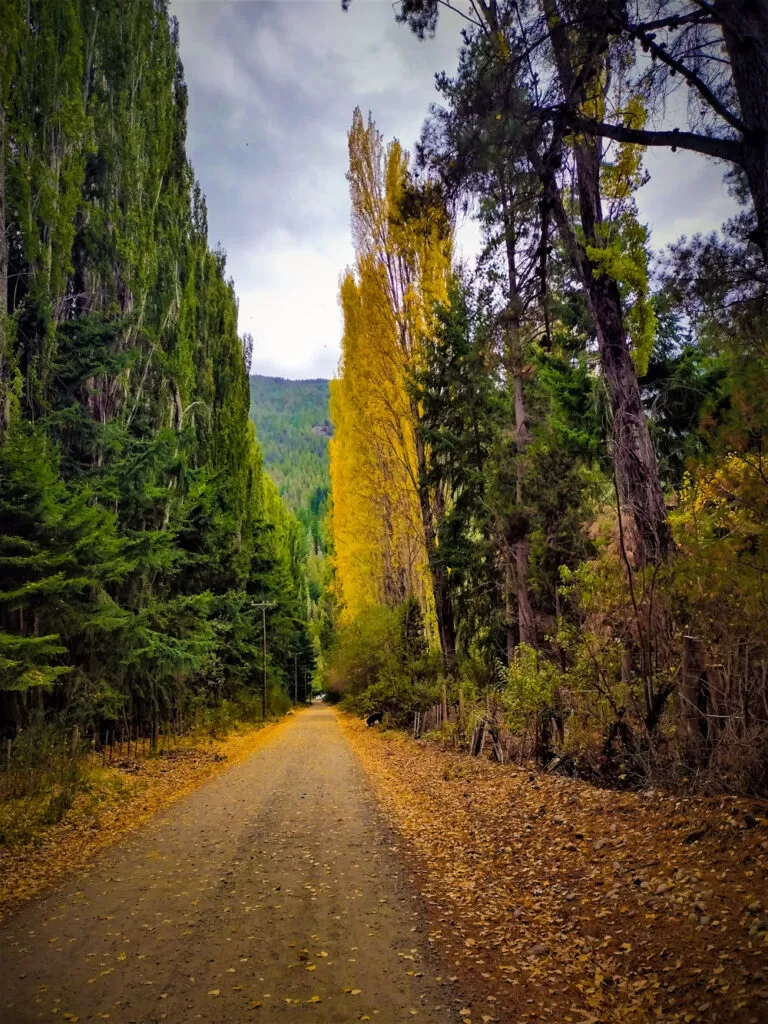
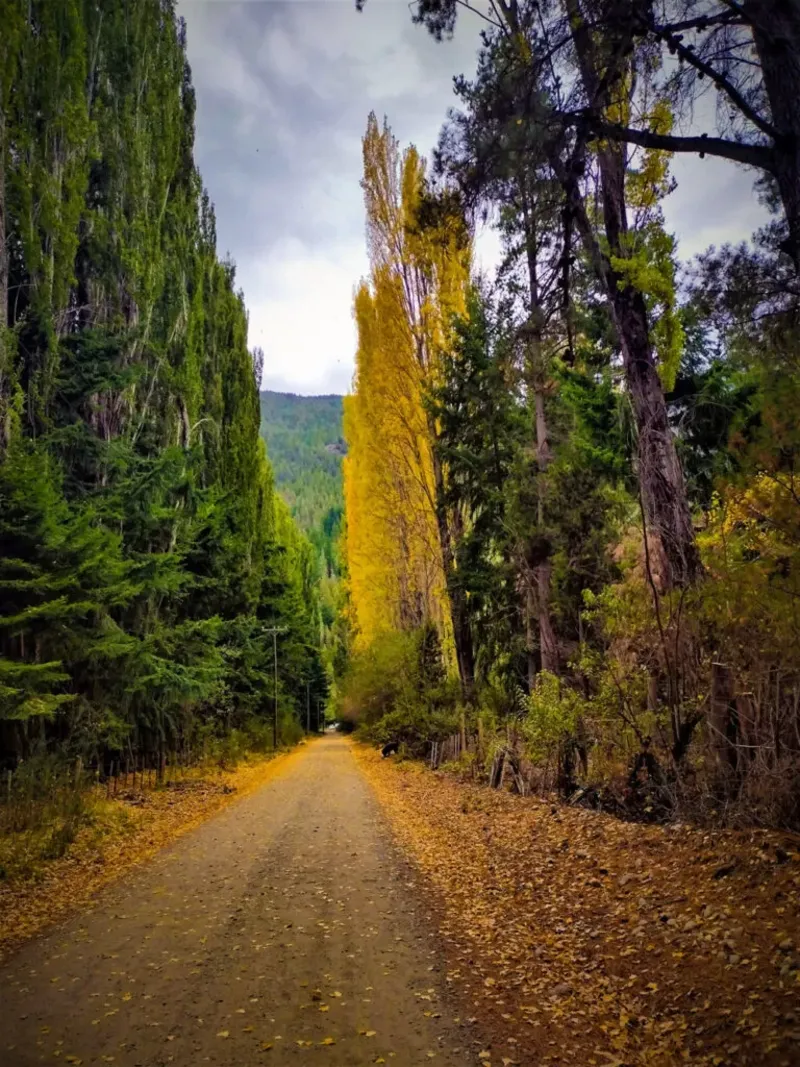
fix: normalize paseos images to WebP and resize to 800px
Convert all mixed-format images (jpg/png/webp) to WebP at 800px width,
reducing total size from ~12.5MB to ~993KB. Rename skiOK→ski,
feriaartesana→feria-artesana for consistency.

diff --git a/src/lib/data/excursions.js b/src/lib/data/excursions.js
@@ -6,7 +6,7 @@ export const excursions = [
 		title: m.excursion_1_title,
 		description: m.excursion_1_desc,
 		tags: [m.excursion_tag_nature, m.excursion_tag_trails, m.excursion_tag_trekking],
-		image: '/paseos/puelo.png',
+		image: '/paseos/puelo.webp',
 		mapsUrl:
 			'https://www.google.com/maps/dir/Caba%C3%B1as+Ucihuen,+Los+Coihues+entre+Los+Alerces,+Las+Lauras+y,+U8431+Lago+Puelo,+Chubut/Lago+Puelo+National+Park,+Unnamed+Road,,+Chubut/',
 		websiteUrl: 'https://www.instagram.com/parquenacionallagopuelo/'
@@ -16,7 +16,7 @@ export const excursions = [
 		title: m.excursion_2_title,
 		description: m.excursion_2_desc,
 		tags: [m.excursion_tag_beach, m.excursion_tag_trekking, m.excursion_tag_nature],
-		image: '/paseos/pasarela.png',
+		image: '/paseos/pasarela.webp',
 		mapsUrl:
 			'https://www.google.com/maps/dir/Caba%C3%B1as+Ucihuen,+Los+Coihues+entre+Los+Alerces,+Las+Lauras+y,+U8431+Lago+Puelo,+Chubut/Pasarela+R%C3%ADo+Azul,+costa+r%C3%ADo+azul,+C.+Roca+del+Tiempo,+U9211+Lago+Puelo,+Chubut/',
 		websiteUrl: null
@@ -26,7 +26,7 @@ export const excursions = [
 		title: m.excursion_3_title,
 		description: m.excursion_3_desc,
 		tags: [m.excursion_tag_beach, m.excursion_tag_nature, m.excursion_tag_trails],
-		image: '/paseos/cayun.jpg',
+		image: '/paseos/cayun.webp',
 		mapsUrl:
 			'https://www.google.com/maps/dir/Caba%C3%B1as+Ucihuen,+Los+Coihues+entre+Los+Alerces,+Las+Lauras+y,+U8431+Lago+Puelo,+Chubut/Balneario+Cayun,+Chubut/',
 		websiteUrl: null
@@ -36,7 +36,7 @@ export const excursions = [
 		title: m.excursion_4_title,
 		description: m.excursion_4_desc,
 		tags: [m.excursion_tag_market, m.excursion_tag_gastronomy, m.excursion_tag_family],
-		image: '/paseos/feriaartesana.webp',
+		image: '/paseos/feria-artesana.webp',
 		mapsUrl:
 			'https://www.google.com/maps/dir/Caba%C3%B1as+Ucihuen,+Los+Coihues+entre+Los+Alerces,+Las+Lauras+y,+U8431+Lago+Puelo,+Chubut/Feria+Regional+El+Bols%C3%B3n,+Gral.+Roca,+R8430+El+Bols%C3%B3n,+R%C3%ADo+Negro/',
 		websiteUrl: null
@@ -56,7 +56,7 @@ export const excursions = [
 		title: m.excursion_6_title,
 		description: m.excursion_6_desc,
 		tags: [m.excursion_tag_ski, m.excursion_tag_adventure, m.excursion_tag_trekking],
-		image: '/paseos/skiOK.jpg',
+		image: '/paseos/ski.webp',
 		mapsUrl:
 			'https://www.google.com/maps/dir/Caba%C3%B1as+Ucihuen,+Los+Coihues+entre+Los+Alerces,+Las+Lauras+y,+U8431+Lago+Puelo,+Chubut/Cerro+Perito+Moreno,+R%C3%ADo+Negro+Province/',
 		websiteUrl: 'https://www.laderas.com.ar/'
@@ -66,7 +66,7 @@ export const excursions = [
 		title: m.excursion_7_title,
 		description: m.excursion_7_desc,
 		tags: [m.excursion_tag_beach, m.excursion_tag_water_sports, m.excursion_tag_nature],
-		image: '/paseos/patriada.jpg',
+		image: '/paseos/patriada.webp',
 		mapsUrl:
 			'https://www.google.com/maps/dir/Caba%C3%B1as+Ucihuen,+Los+Coihues+entre+Los+Alerces,+Las+Lauras+y,+U8431+Lago+Puelo,+Chubut/Puerto+Patriada,+RFM5%2B3W,+El+Hoyo,+Chubut/',
 		websiteUrl: null
@@ -76,7 +76,7 @@ export const excursions = [
 		title: m.excursion_8_title,
 		description: m.excursion_8_desc,
 		tags: [m.excursion_tag_nature, m.excursion_tag_trails, m.excursion_tag_family],
-		image: '/paseos/confluencia.png',
+		image: '/paseos/confluencia.webp',
 		mapsUrl:
 			'https://www.google.com/maps/dir/Caba%C3%B1as+Ucihuen,+Los+Coihues+entre+Los+Alerces,+Las+Lauras+y,+U8431+Lago+Puelo,+Chubut/Pasarela+La+Confluencia,+Chubut/',
 		websiteUrl: null
@@ -86,7 +86,7 @@ export const excursions = [
 		title: m.excursion_9_title,
 		description: m.excursion_9_desc,
 		tags: [m.excursion_tag_trekking, m.excursion_tag_viewpoint, m.excursion_tag_nature],
-		image: '/paseos/mirador.png',
+		image: '/paseos/mirador.webp',
 		mapsUrl:
 			'https://www.google.com/maps/dir/Caba%C3%B1as+Ucihuen,+Los+Coihues+entre+Los+Alerces,+Las+Lauras+y,+U8431+Lago+Puelo,+Chubut/Sendero+Mirador+del+Lago,+Chubut/',
 		websiteUrl: null
